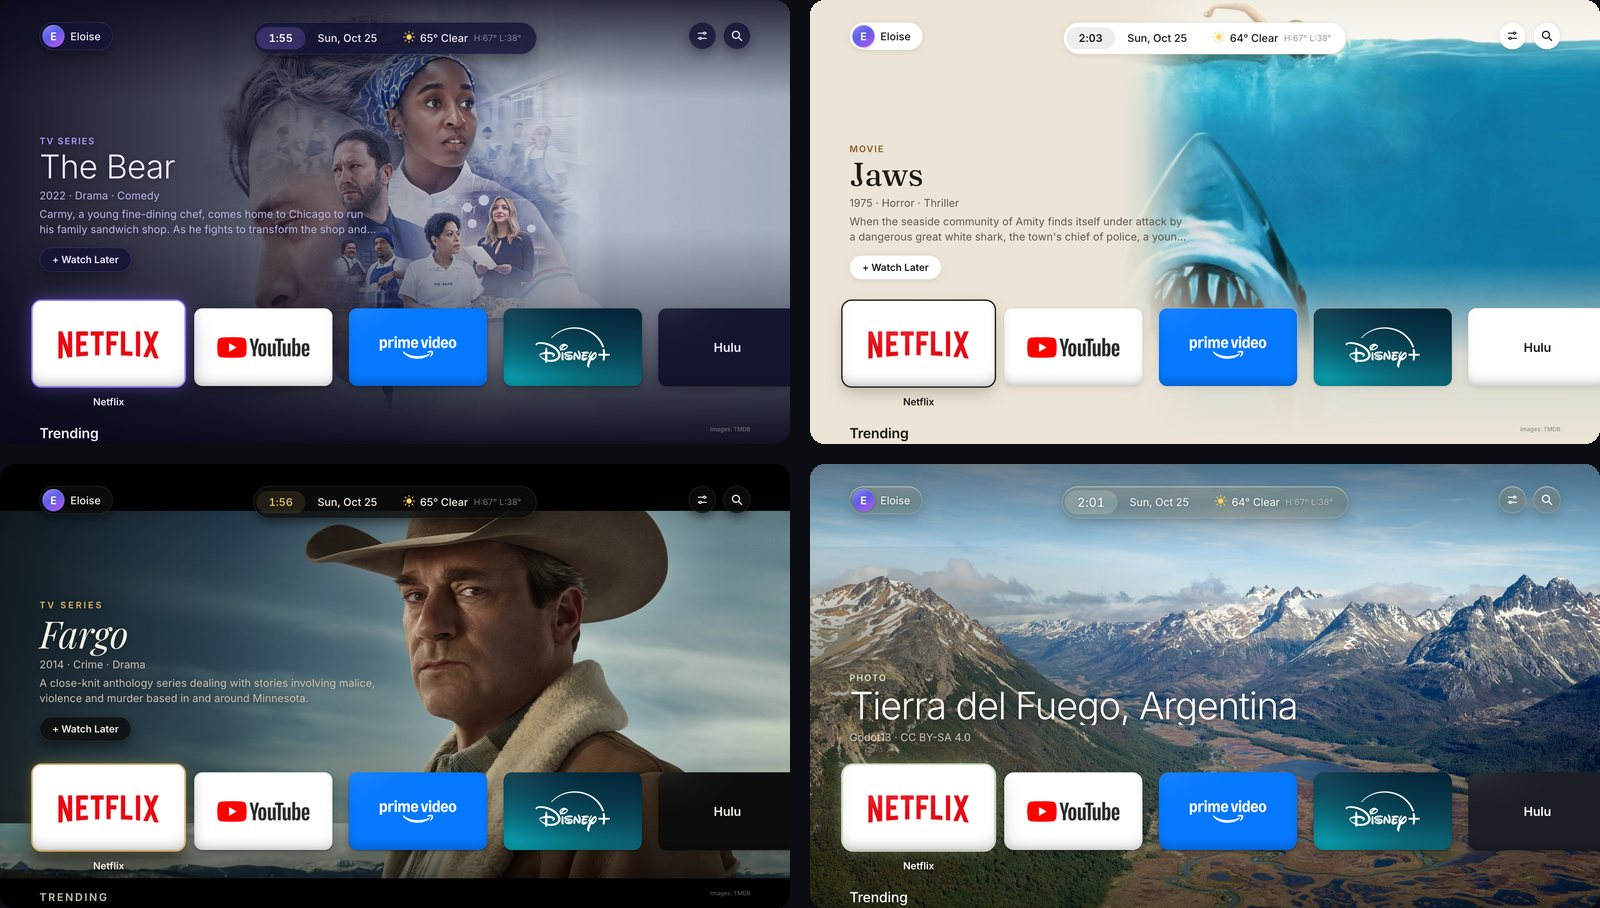
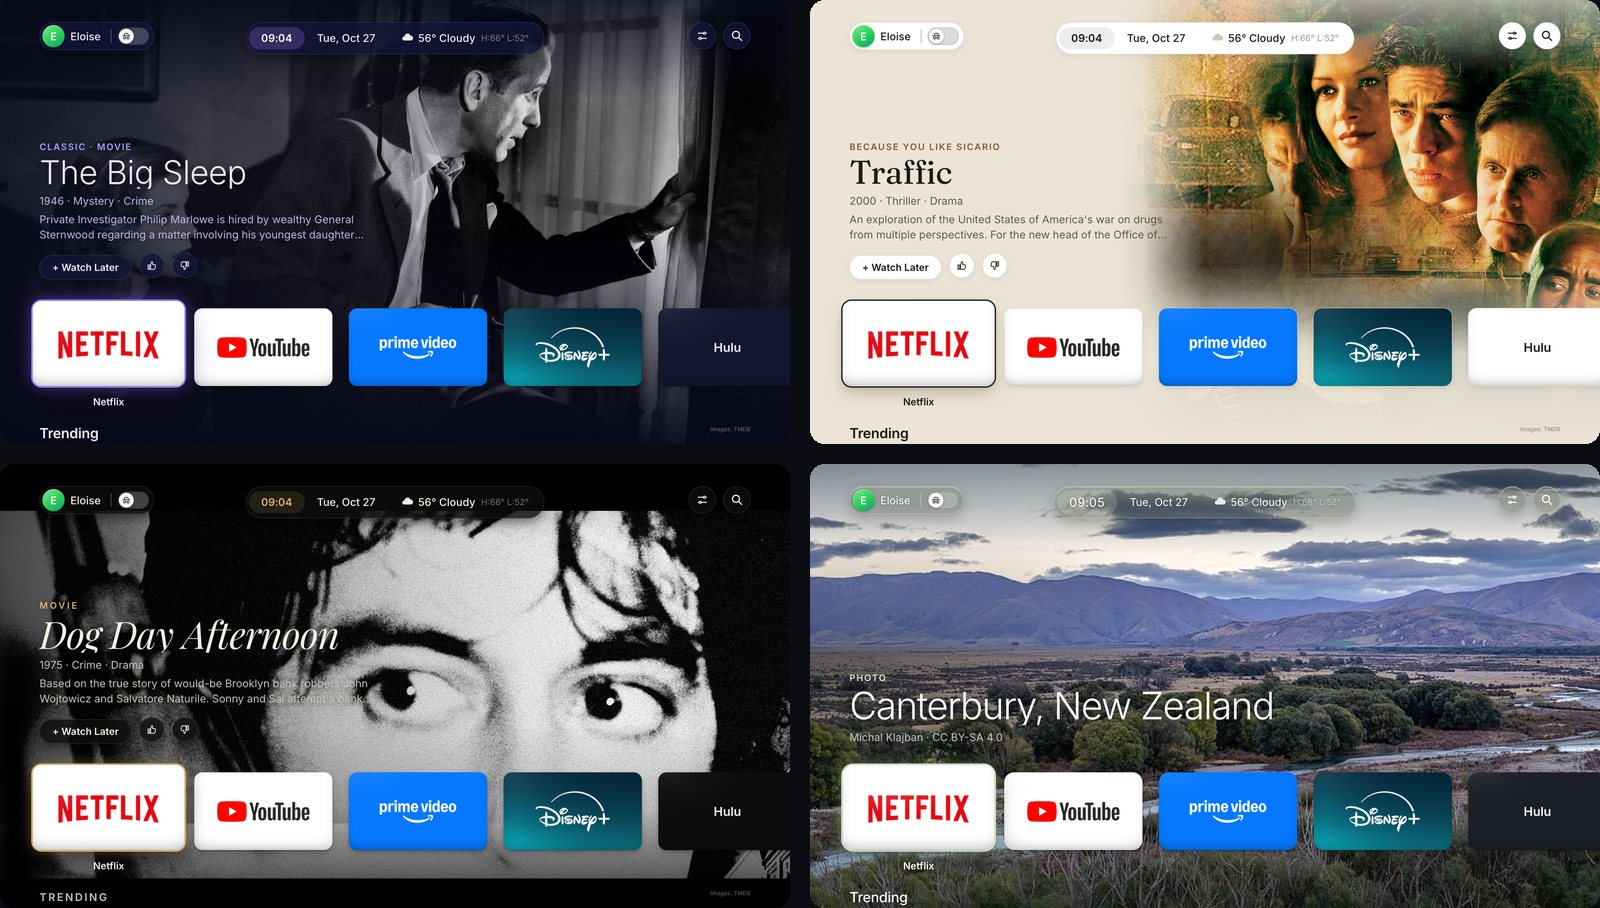
README: new screenshots and the new features
Retake the app screenshots with thumbs up/down, the profile menu's themes and
the incognito switch, add the theme menu and incognito to the gallery, and
list the new features and remote shortcuts.

diff --git a/README.md b/README.md
@@ -12,7 +12,7 @@ Made by Emmanuel Pozo ([@princepozo](https://x.com/princepozo)).
   <sub>Enjoying Zen TV? Say thanks on Venmo: <a href="https://venmo.com/u/epozo"><b>@epozo</b></a></sub>
 </p>
 
-![Zen TV's home screen: the app row over a scene from Lawrence of Arabia](docs/screenshots/home.jpg)
+![Zen TV's home screen: the app row over a scene from Cruella, with Watch Later and thumbs up/down](docs/screenshots/home.jpg)
 
 > **Tried on one TV only.** I built this for my own TV, a 2018 Samsung (UN65NU8000) running Tizen 4.0,
 > and that's the only one it has been tested on. Other Samsung TVs running Tizen will probably work, but
@@ -23,10 +23,13 @@ Made by Emmanuel Pozo ([@princepozo](https://x.com/princepozo)).
 
 - **Your apps** in one row, ordered by what you use most
 - **Landscape backgrounds**, or movie and show scenes when recommendations are on
-- **Recommendations** (optional): Trending, Classics, Watch Later, voice search, and thumbs up/down
-  on any title to steer what it suggests
-- **Profiles** for everyone in the house, each with an incognito switch that hides its
-  recommendations (just the apps over landscapes) until it's switched back
+- **Recommendations** (optional): Trending, Classics, Watch Later and voice search
+- **Thumbs up/down** on any title or movie background, to steer what it suggests next
+- **Open a title in its app**: Apple TV and Hulu go straight to the title; for a service you don't
+  have, "Get Philo to watch" (for example) takes you to Samsung's app store
+- **Profiles** for everyone in the house, each with its own theme, Watch Later and taste
+- **Incognito**: a switch on the profile pill that hides that profile's recommendations (just the
+  apps over landscapes) until it's switched back
 - **Five themes**: Glass, Midnight, Paper, Cinema and Nature, picked per profile from the profile menu
 - **Controls**: switch the TV's input or open its settings
 - Opens when the TV turns on, and comes back when you leave an app (optional)
@@ -36,11 +39,19 @@ Made by Emmanuel Pozo ([@princepozo](https://x.com/princepozo)).
 <table>
   <tr>
     <td width="50%"><img src="docs/screenshots/trending.jpg" alt="The Trending row, with the focused title as the background"></td>
-    <td width="50%"><img src="docs/screenshots/detail.jpg" alt="A title's actions: open it in its app, or save it to Watch Later"></td>
+    <td width="50%"><img src="docs/screenshots/detail.jpg" alt="A title's actions: open it in its app, save it to Watch Later, thumbs up or down"></td>
   </tr>
   <tr>
     <td><b>Trending</b> on your apps, with Classics and Watch Later below</td>
-    <td>Open a title in its app, or save it for later</td>
+    <td>Open a title in its app, save it for later, or give it a thumbs up or down</td>
+  </tr>
+  <tr>
+    <td><img src="docs/screenshots/theme-menu.jpg" alt="The profile menu: the profiles, then this profile's theme"></td>
+    <td><img src="docs/screenshots/incognito.jpg" alt="Incognito on: just the apps over a landscape, the switch on the profile pill"></td>
+  </tr>
+  <tr>
+    <td><b>Profiles</b>, each picking its own theme</td>
+    <td><b>Incognito</b>: hide a profile's recommendations with one switch</td>
   </tr>
   <tr>
     <td><img src="docs/screenshots/controls.jpg" alt="The Controls menu: the TV's inputs and TV settings"></td>
@@ -52,7 +63,7 @@ Made by Emmanuel Pozo ([@princepozo](https://x.com/princepozo)).
   </tr>
 </table>
 
-**Themes.** Glass (above), plus Midnight, Paper, Cinema and Nature:
+**Themes.** Glass (above), plus Midnight, Paper, Cinema and Nature, picked per profile:
 
 ![The Midnight, Paper, Cinema and Nature themes](docs/screenshots/themes.jpg)
 
@@ -106,7 +117,9 @@ certificate, choosing Allow on the TV), and your agent will tell you when.
 | --- | --- |
 | Open an app | Left/Right, then OK. Back while it's loading cancels |
 | Recommendations | Down from the apps: Trending, Classics, Watch Later |
-| Switch profile | Up, then OK on your name (top left) |
+| Thumbs up/down | OK on a title, then Right to 👍 or 👎; or Up to a movie background's buttons |
+| Switch profile or theme | Up, then OK on your name (top left) |
+| Incognito | Up, then Right to the switch next to your name, and OK |
 | Inputs and TV settings | Up, then Right to **Controls** |
 | Search | Up, then Right past Controls (with recommendations on) |
 | Go back | Back |
